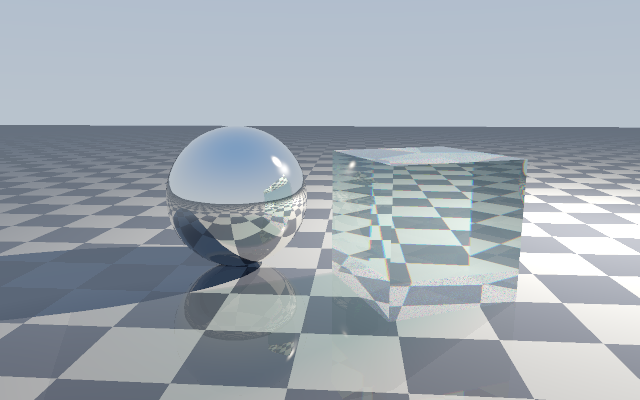
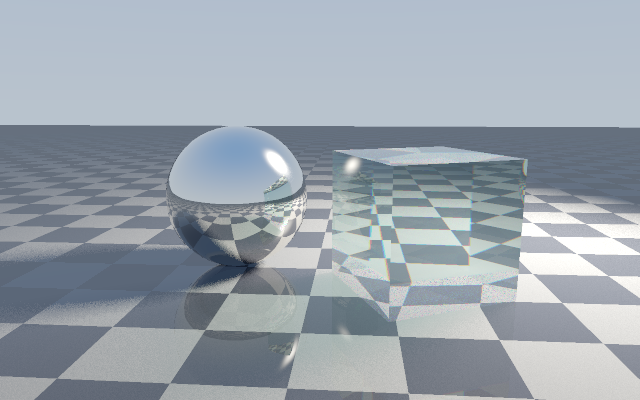
Light both scenes with softboxes
The engine grew area lights and then used them nowhere, so the shipped
scenes went on demonstrating the thing the feature exists to avoid: every
shadow in the repository's own images was a step.

scene_default's key becomes a two-unit panel aimed at what the default
camera is aimed at.  Two samples per axis rather than three is a
deliberate floor: the panel's angular size is what sets the noise and two
samples leave visible grain at aa = 1, but at the aa = 2 that render.sh
defaults to, the four sub-samples of a pixel are four separate hits
looking at four different parts of the panel, so a pixel averages sixteen
points on the light.  Three samples would halve the grain again and cost
2.3x rather than 1.6x on every render anyone ever does with this scene,
which is not a good trade for a default.

sky_e is derived from the size rather than chosen.  The disc is a cos^n
lobe, at half brightness at sqrt(2 ln 2 / n) radians, and the panel is
0.135 radians across from the origin -- so n is about 80.  Left at the
point light's 420 the chrome ball would reflect a pinpoint from a source
a hundred times that wide, which is the one place the sky disc's
distant-sun approximation shows.

torus_scene.sql states its own lighting instead of inheriting it.
scene_clear() empties the geometry and leaves `light` alone, so that file
used to render under whatever the previous scene installed -- which works,
and hides that the picture depends on it.
[…]

diff --git a/README.md b/README.md
@@ -109,7 +109,9 @@ background as well as on the surfaces it lights. Keeping that on the light
 rather than in the sky is what holds the two consistent: move the light and its
 reflection moves with it.
 
-A light can also have a size, which is what makes a shadow soft:
+A light can also have a size, which is what makes a shadow soft. The default
+scene's key is a two-unit panel rather than a point, so this is what
+`./render.sh` above is already doing:
 
 ```sql
 SELECT light_softbox('key', ROW(5.2, 4.6, -2.4)::vec3,  -- where it is
@@ -132,7 +134,8 @@ same intersection to the last bit, so a pixel that adaptive sampling refines is
 still bit-for-bit the pixel a uniform render would have produced.
 
 The cost is `samples²` shadow rays per lit hit and nothing else: transport does
-not change, and a scene with no area light in it pays about 2% for the machinery.
+not change, and a scene with no area light in it pays about 2% for the
+machinery.
 Buy softness with `samples` rather than with `aa` — the samples inside one hit
 are stratified and the ones spread across sub-samples are not, so at equal ray
 count `samples 4, aa 1` is both cleaner and four times faster than
